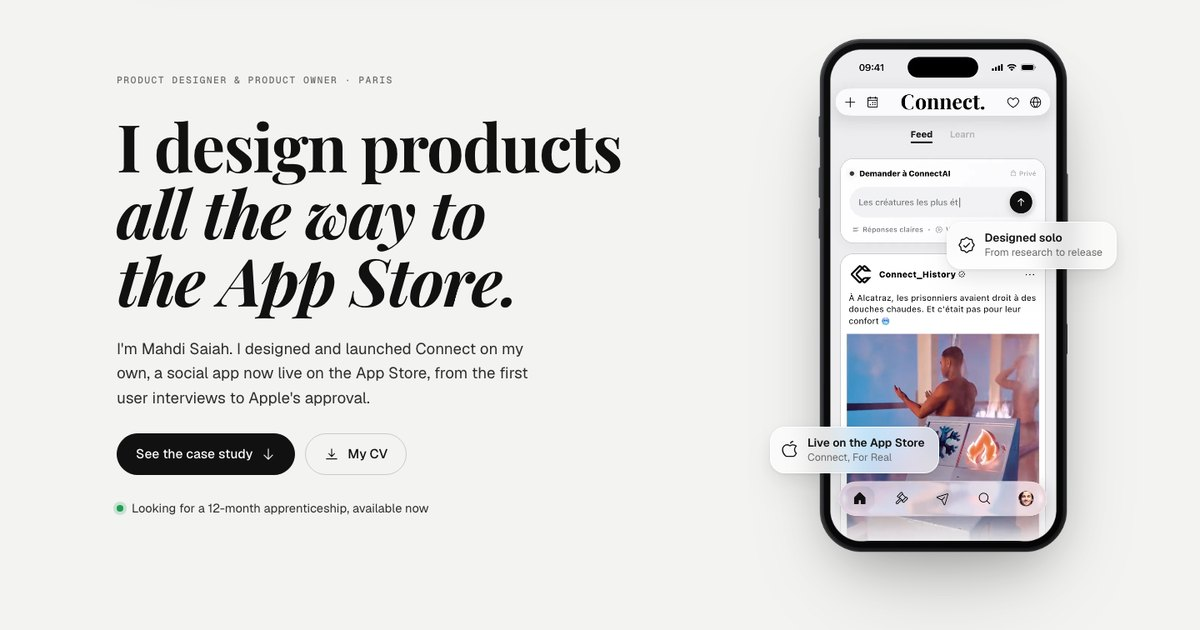
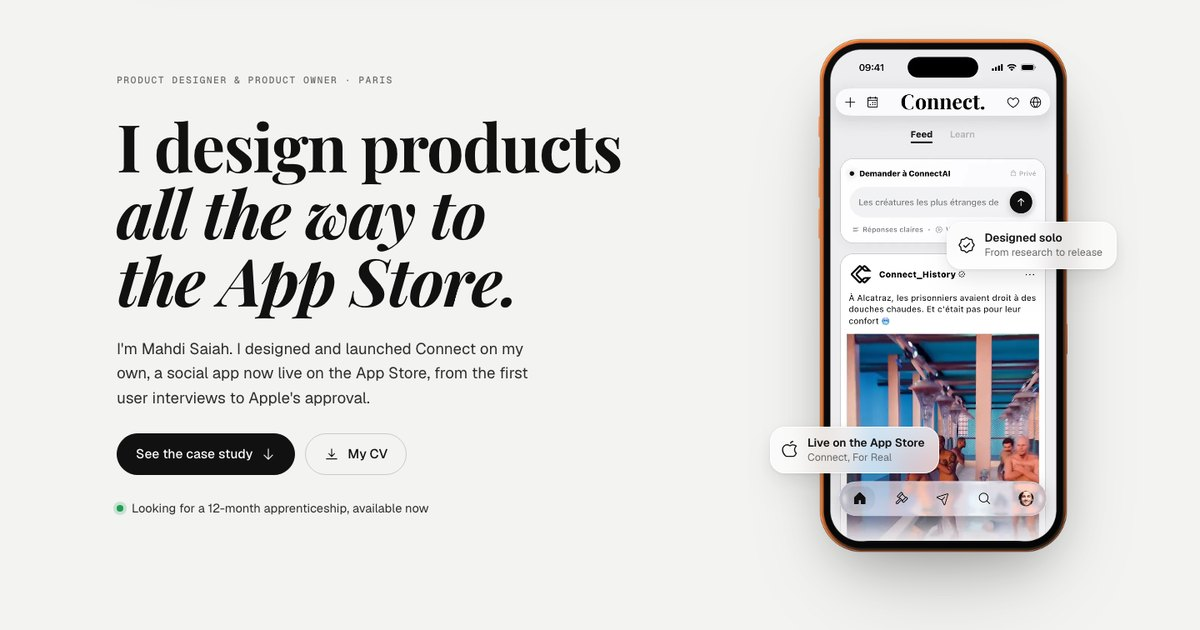
Light/dark switch on every page, phones in Cosmic Orange

Changed region(s): [[0.6783, 0.0603, 0.8942, 0.8746], [0.8017, 0.3016, 0.8325, 0.3317]]

diff --git a/css/site.css b/css/site.css
@@ -33,8 +33,9 @@
   --ease: cubic-bezier(.2, .8, .2, 1);
   color-scheme: light;
 }
+/* Dark: follows the phone unless the visitor picked a side with the switch. */
 @media (prefers-color-scheme: dark) {
-  :root {
+  :root:not([data-theme="light"]) {
     --ground: #0A0A0A; --card: #161616; --ink: #F1F1F1; --ink-2: #D6D6D6;
     --muted: #9A9A9A; --faint: #5E5E5E;
     --line: rgba(255,255,255,.17); --line-soft: rgba(255,255,255,.07); --fill: #222222;
@@ -46,12 +47,24 @@
     color-scheme: dark;
   }
 }
+:root[data-theme="dark"] {
+  --ground: #0A0A0A; --card: #161616; --ink: #F1F1F1; --ink-2: #D6D6D6;
+  --muted: #9A9A9A; --faint: #5E5E5E;
+  --line: rgba(255,255,255,.17); --line-soft: rgba(255,255,255,.07); --fill: #222222;
+  --inverse: #F1F1F1; --on-inverse: #111111;
+  --glass: rgba(28,28,28,.66); --glass-edge: rgba(255,255,255,.10);
+  --ok: #3CCB7F;
+  --shadow: 0 1px 5px rgba(0,0,0,.5), 0 8px 22px rgba(0,0,0,.35), 0 20px 46px rgba(0,0,0,.25);
+  --phone-shadow: 0 2px 6px rgba(0,0,0,.5), 0 30px 60px -10px rgba(0,0,0,.7), 0 0 80px -20px rgba(255,255,255,.06);
+  color-scheme: dark;
+}
 
 /* ---------- base ---------- */
 *, *::before, *::after { box-sizing: border-box; }
 html { overflow-x: clip; -webkit-text-size-adjust: 100%; scroll-behavior: smooth; }
 body {
   margin: 0; background: var(--ground); color: var(--ink);
+  transition: background-color .5s var(--ease), color .5s var(--ease);
   font-family: var(--f-body); font-size: 1.0625rem; line-height: 1.6;
   -webkit-font-smoothing: antialiased; -moz-osx-font-smoothing: grayscale;
 }
@@ -108,7 +121,8 @@ section { scroll-margin-top: 90px; }
 }
 .brand { display: flex; align-items: center; gap: 10px; text-decoration: none; margin-right: auto; font-weight: 600; font-size: .98rem; letter-spacing: -.01em; }
 .brand img { width: 24px; height: 24px; object-fit: contain; }
-@media (prefers-color-scheme: dark) { .brand img { filter: invert(1); } }
+@media (prefers-color-scheme: dark) { :root:not([data-theme="light"]) .brand img { filter: invert(1); } }
+:root[data-theme="dark"] .brand img { filter: invert(1); }
 .nav__links { display: flex; gap: 2px; }
 .nav__links a { font-size: .92rem; text-decoration: none; color: var(--muted); padding: 8px 13px; border-radius: 18px; transition: color .2s, background .2s; }
 .nav__links a:hover { color: var(--ink); background: var(--line-soft); }
@@ -117,10 +131,15 @@ section { scroll-margin-top: 90px; }
 .seg button { position: relative; z-index: 1; padding: 6px 12px; font-size: .8rem; font-weight: 500; color: var(--muted); transition: color .25s; border-radius: 999px; white-space: nowrap; }
 .seg button[aria-pressed="true"] { color: var(--on-inverse); }
 
+.theme { width: 40px; height: 40px; border-radius: 50%; display: grid; place-items: center; font-size: 18px; color: var(--ink); transition: background .2s; flex: none; }
+.theme:hover { background: var(--line-soft); }
+.theme .i { transition: transform .6s var(--ease); }
+.theme:active .i { transform: rotate(90deg); }
+
 /* ---------- device: real screenshot in the real iPhone 17 Pro frame ---------- */
 .dev { --w: 300px; position: relative; width: var(--w); max-width: 100%; aspect-ratio: 1378 / 2794; flex: none; }
 .dev::before { content: ""; position: absolute; inset: 3% 4%; border-radius: 20% / 9.8%; background: #0B0B0B; box-shadow: var(--phone-shadow); }
-.dev::after { content: ""; position: absolute; inset: 0; z-index: 3; pointer-events: none; background: url(../media/connect/iphone-frame-graphite.webp) center / 100% 100% no-repeat; }
+.dev::after { content: ""; position: absolute; inset: 0; z-index: 3; pointer-events: none; background: url(../media/connect/iphone-frame-orange.webp) center / 100% 100% no-repeat; }
 .dev__screen { position: absolute; left: 6.24%; top: 3.08%; width: 87.52%; height: 93.84%; border-radius: 13% / 6%; overflow: hidden; background: #EDEDEC; z-index: 1; }
 .dev__screen > img, .dev__screen > video { position: absolute; inset: 0; width: 100%; height: 100%; object-fit: cover; }
 .dev__screen > [data-key] { opacity: 0; transition: opacity .55s var(--ease); }

diff --git a/js/site.js b/js/site.js
@@ -29,10 +29,26 @@
   var KEY = 'ms_lang';
   var titles = { en: root.getAttribute('data-title-en') || document.title, fr: root.getAttribute('data-title-fr') || document.title };
 
+  /* ---------- theme: follows the phone until the visitor flips the switch ---------- */
+  var THEME_KEY = 'ms_theme';
+  function isDark() { var t = root.getAttribute('data-theme'); return t ? t === 'dark' : darkMq.matches; }
+  function paintTheme() {
+    var dark = isDark(), fr = root.getAttribute('lang') === 'fr';
+    var btn = document.getElementById('theme');
+    if (btn) {
+      btn.innerHTML = '<svg class="i"><use href="media/icons.svg#' + (dark ? 'sun' : 'moon') + '"/></svg>';
+      btn.setAttribute('aria-label', dark ? (fr ? 'Passer en mode clair' : 'Switch to light mode') : (fr ? 'Passer en mode sombre' : 'Switch to dark mode'));
+      btn.setAttribute('aria-pressed', dark ? 'true' : 'false');
+    }
+    var meta = document.querySelector('meta[name="theme-color"]:not([media])');
+    if (meta) meta.setAttribute('content', dark ? '#0A0A0A' : '#F3F3F2');
+    badges();
+  }
+
   function badges() {
     var fr = root.getAttribute('lang') === 'fr';
     document.querySelectorAll('[data-badge]').forEach(function (img) {
-      img.src = 'media/connect/appstore-' + (darkMq.matches ? 'white' : 'black') + '-' + (fr ? 'fr-fr' : 'en-us') + '.svg';
+      img.src = 'media/connect/appstore-' + (isDark() ? 'white' : 'black') + '-' + (fr ? 'fr-fr' : 'en-us') + '.svg';
       img.alt = fr ? "Télécharger dans l'App Store" : 'Download on the App Store';
     });
   }
@@ -55,7 +71,7 @@
     document.title = titles[fr ? 'fr' : 'en'];
     var seg = document.getElementById('lang');
     if (seg) press(seg, seg.querySelector('[data-lang="' + lang + '"]'));
-    badges();
+    paintTheme();
     try { localStorage.setItem(KEY, lang); } catch (e) {}
   }
 
@@ -67,7 +83,14 @@
   document.querySelectorAll('#lang button').forEach(function (b) {
     b.addEventListener('click', function () { apply(b.getAttribute('data-lang')); });
   });
-  if (darkMq.addEventListener) darkMq.addEventListener('change', badges);
+  if (darkMq.addEventListener) darkMq.addEventListener('change', paintTheme);
+  var themeBtn = document.getElementById('theme');
+  if (themeBtn) themeBtn.addEventListener('click', function () {
+    var next = isDark() ? 'light' : 'dark';
+    root.setAttribute('data-theme', next);
+    try { localStorage.setItem(THEME_KEY, next); } catch (e) {}
+    paintTheme();
+  });
 
   /* ---------- nav: hides while reading down, comes back on the way up ---------- */
   var nav = document.getElementById('nav');

diff --git a/memoire.html b/memoire.html
@@ -2,11 +2,11 @@
 <html lang="en" data-title-en="Costs and trajectories by Mahdi Saiah" data-title-fr="Coûts et trajectoires par Mahdi Saiah">
 <head>
 <meta charset="utf-8">
+<script>try{var t=localStorage.getItem('ms_theme');if(t==='dark'||t==='light')document.documentElement.setAttribute('data-theme',t)}catch(e){}</script>
 <meta name="viewport" content="width=device-width, initial-scale=1, viewport-fit=cover">
 <title>Costs and trajectories by Mahdi Saiah</title>
 <meta name="description" content="Mahdi Saiah's Master 1 thesis on OpenAI's environmental footprint, with the Heritage VR game.">
-<meta name="theme-color" content="#F3F3F2" media="(prefers-color-scheme: light)">
-<meta name="theme-color" content="#0A0A0A" media="(prefers-color-scheme: dark)">
+<meta name="theme-color" content="#F3F3F2">
 <link rel="icon" type="image/png" sizes="32x32" href="media/brand/favicon-32.png">
 <link rel="icon" type="image/png" sizes="512x512" href="media/brand/favicon-512.png">
 <link rel="apple-touch-icon" href="media/brand/apple-touch-icon.png">
@@ -31,6 +31,7 @@
       <button type="button" data-lang="en" aria-pressed="true">EN</button>
       <button type="button" data-lang="fr" aria-pressed="false">FR</button>
     </div>
+    <button class="theme" id="theme" type="button" aria-label="Switch to dark mode"><svg class="i"><use href="media/icons.svg#moon"/></svg></button>
     <a class="btn btn--ink btn--sm" href="index.html#contact" data-fr="Me contacter">Get in touch</a>
   </div>
 </header>

diff --git a/index.html b/index.html
@@ -2,11 +2,11 @@
 <html lang="en" data-title-en="Mahdi Saiah" data-title-fr="Mahdi Saiah">
 <head>
 <meta charset="utf-8">
+<script>try{var t=localStorage.getItem('ms_theme');if(t==='dark'||t==='light')document.documentElement.setAttribute('data-theme',t)}catch(e){}</script>
 <meta name="viewport" content="width=device-width, initial-scale=1, viewport-fit=cover">
 <title>Mahdi Saiah</title>
 <meta name="description" content="Mahdi Saiah, Product Designer and Product Owner in Paris. He designed and launched Connect, a social app live on the App Store, from user research to Apple's approval.">
-<meta name="theme-color" content="#F3F3F2" media="(prefers-color-scheme: light)">
-<meta name="theme-color" content="#0A0A0A" media="(prefers-color-scheme: dark)">
+<meta name="theme-color" content="#F3F3F2">
 <meta property="og:type" content="website">
 <meta property="og:title" content="Mahdi Saiah, Product Designer and Product Owner">
 <meta property="og:description" content="I designed and launched Connect on my own, a social app live on the App Store.">
@@ -37,6 +37,7 @@
       <button type="button" data-lang="en" aria-pressed="true">EN</button>
       <button type="button" data-lang="fr" aria-pressed="false">FR</button>
     </div>
+    <button class="theme" id="theme" type="button" aria-label="Switch to dark mode"><svg class="i"><use href="media/icons.svg#moon"/></svg></button>
     <a class="btn btn--ink btn--sm" href="#contact" data-fr="Me contacter">Get in touch</a>
   </div>
 </header>

diff --git a/empreintes.html b/empreintes.html
@@ -2,11 +2,11 @@
 <html lang="en" data-title-en="Empreintes by Mahdi Saiah" data-title-fr="Empreintes par Mahdi Saiah">
 <head>
 <meta charset="utf-8">
+<script>try{var t=localStorage.getItem('ms_theme');if(t==='dark'||t==='light')document.documentElement.setAttribute('data-theme',t)}catch(e){}</script>
 <meta name="viewport" content="width=device-width, initial-scale=1, viewport-fit=cover">
 <title>Empreintes by Mahdi Saiah</title>
 <meta name="description" content="Empreintes, a Unity game by Mahdi Saiah where the CO2 of every trip adds up on screen.">
-<meta name="theme-color" content="#F3F3F2" media="(prefers-color-scheme: light)">
-<meta name="theme-color" content="#0A0A0A" media="(prefers-color-scheme: dark)">
+<meta name="theme-color" content="#F3F3F2">
 <link rel="icon" type="image/png" sizes="32x32" href="media/brand/favicon-32.png">
 <link rel="icon" type="image/png" sizes="512x512" href="media/brand/favicon-512.png">
 <link rel="apple-touch-icon" href="media/brand/apple-touch-icon.png">
@@ -31,6 +31,7 @@
       <button type="button" data-lang="en" aria-pressed="true">EN</button>
       <button type="button" data-lang="fr" aria-pressed="false">FR</button>
     </div>
+    <button class="theme" id="theme" type="button" aria-label="Switch to dark mode"><svg class="i"><use href="media/icons.svg#moon"/></svg></button>
     <a class="btn btn--ink btn--sm" href="index.html#contact" data-fr="Me contacter">Get in touch</a>
   </div>
 </header>

diff --git a/craft.html b/craft.html
@@ -2,11 +2,11 @@
 <html lang="en" data-title-en="3D renders by Mahdi Saiah" data-title-fr="Rendus 3D par Mahdi Saiah">
 <head>
 <meta charset="utf-8">
+<script>try{var t=localStorage.getItem('ms_theme');if(t==='dark'||t==='light')document.documentElement.setAttribute('data-theme',t)}catch(e){}</script>
 <meta name="viewport" content="width=device-width, initial-scale=1, viewport-fit=cover">
 <title>3D renders by Mahdi Saiah</title>
 <meta name="description" content="Thirteen Blender renders by Mahdi Saiah.">
-<meta name="theme-color" content="#F3F3F2" media="(prefers-color-scheme: light)">
-<meta name="theme-color" content="#0A0A0A" media="(prefers-color-scheme: dark)">
+<meta name="theme-color" content="#F3F3F2">
 <link rel="icon" type="image/png" sizes="32x32" href="media/brand/favicon-32.png">
 <link rel="icon" type="image/png" sizes="512x512" href="media/brand/favicon-512.png">
 <link rel="apple-touch-icon" href="media/brand/apple-touch-icon.png">
@@ -31,6 +31,7 @@
       <button type="button" data-lang="en" aria-pressed="true">EN</button>
       <button type="button" data-lang="fr" aria-pressed="false">FR</button>
     </div>
+    <button class="theme" id="theme" type="button" aria-label="Switch to dark mode"><svg class="i"><use href="media/icons.svg#moon"/></svg></button>
     <a class="btn btn--ink btn--sm" href="index.html#contact" data-fr="Me contacter">Get in touch</a>
   </div>
 </header>

diff --git a/404.html b/404.html
@@ -2,6 +2,7 @@
 <html lang="en">
 <head>
 <meta charset="utf-8">
+<script>try{var t=localStorage.getItem('ms_theme');if(t==='dark'||t==='light')document.documentElement.setAttribute('data-theme',t)}catch(e){}</script>
 <meta name="viewport" content="width=device-width, initial-scale=1">
 <title>Page not found</title>
 <link rel="icon" type="image/png" sizes="32x32" href="/media/brand/favicon-32.png">
